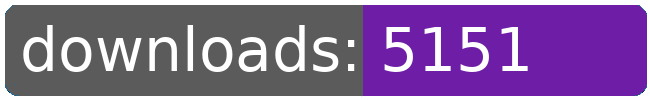
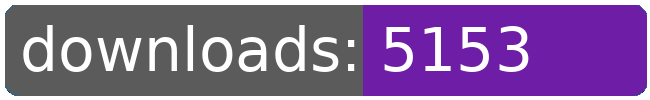
dl log written

Changed region(s): [[0.7692, 0.24, 0.8308, 0.72]]

diff --git a/README.md b/README.md
@@ -21,8 +21,8 @@
 		<td>5056</td>
 		<td>5087</td>
 		<td>5125</td>
-		<td>5151</td>
-		<td>+ 26</td>
+		<td>5153</td>
+		<td>+ 28</td>
 	</tr>
 	<tr>
 		<td>aberrant.kahet.outfitter</td>
@@ -274,8 +274,8 @@
 		<td></td>
 		<td></td>
 		<td></td>
-		<td>74712</td>
-		<td>199</td>
+		<td>74714</td>
+		<td>201</td>
 	</tr>
 </table>
 </sub></sup>
@@ -300,8 +300,8 @@
 		<td>5056</td>
 		<td>5087</td>
 		<td>5125</td>
-		<td>5151</td>
-		<td>+ 26</td>
+		<td>5153</td>
+		<td>+ 28</td>
 	</tr>
 	<tr>
 		<td>aberrant.kahet.outfitter</td>
@@ -553,8 +553,8 @@
 		<td></td>
 		<td></td>
 		<td></td>
-		<td>74712</td>
-		<td>199</td>
+		<td>74714</td>
+		<td>201</td>
 	</tr>
 </table>
 </sub></sup>
